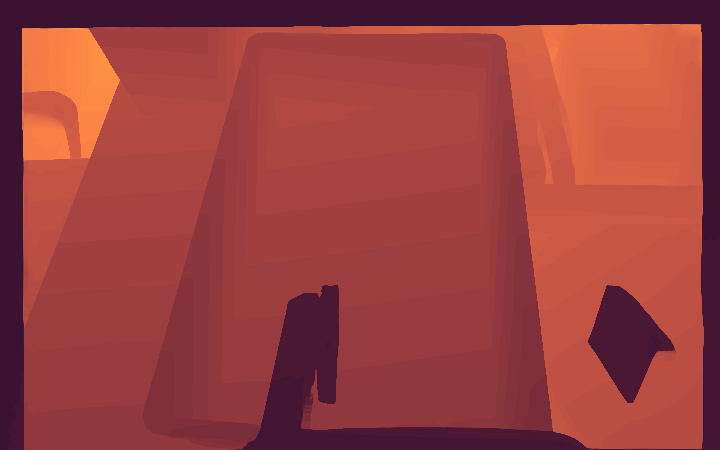
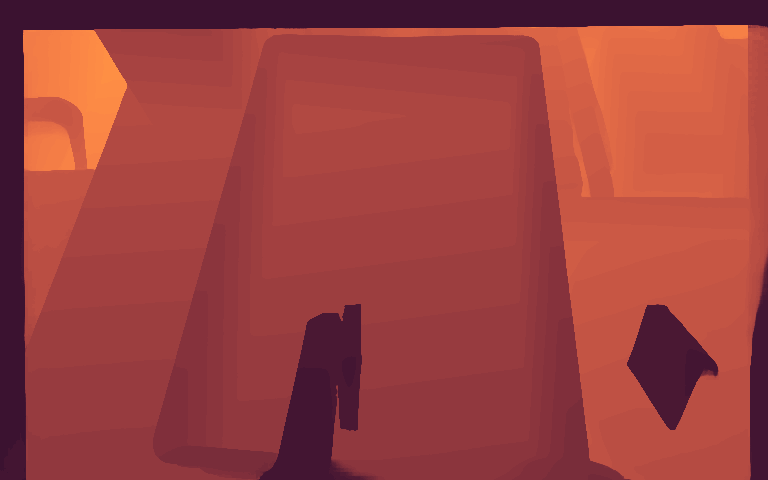
last test

diff --git a/posemain/scripts/project.py b/posemain/scripts/project.py
@@ -398,12 +398,9 @@ def main():
     depth = np.zeros_like(disp)
     depth[valid] = K_rect[0, 0] * baseline / disp[valid]
 
-    cv2.imwrite(f"{args.out_dir}/disparity0.png", U.vis_disparity(disp, args.z_far))
-    cv2.imwrite(f"{args.out_dir}/depth0.png", U.vis_disparity(depth, max_val=args.z_far))
-
     if args.show_distance:
         run_depth_distance_window(depth, K_rect, args.z_far, args.out_dir)
-
+    
     if args.stereo_device == 'cuda':
         model.to('cpu')
     gc.collect()
@@ -480,7 +477,7 @@ def main():
         vis = draw_xyz_axis_pose(vis, ob_in_cam=pose, scale=0.25, K=K_rect, thickness=6, transparency=0, is_input_rgb=True)
 
         vis_bgr = cv2.cvtColor(vis, cv2.COLOR_RGB2BGR)
-        cv2.imwrite(os.path.join(args.save_dir, f'result_{i:02d}.png'), vis_bgr)
+        # cv2.imwrite(os.path.join(args.save_dir, f'result_{i:02d}.png'), vis_bgr)
 
         if args.show_pose:
             cv2.imshow('Estimated Pose', vis_bgr[..., ::-1])